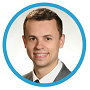
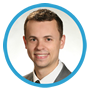
rebuilding site Sun, Feb 14, 2016  9:35:20 AM

diff --git a/2016/02/11/website-evaluation-links/index.html b/2016/02/11/website-evaluation-links/index.html
@@ -90,11 +90,12 @@
   <main id="main-wrapper" class="container main_wrapper has-sidebar">
     <header id="main-header" class="container main_header">
   <div class="container brand">
-  <div class="container title h1-like">
+  <div class="container title h2-like">
   <a class="baselink" href="http://andrewrgoss.github.io/">
-  Andrew Goss
+  <img src="https://raw.githubusercontent.com/andrewrgoss/andrewrgoss.com/master/content/media/me.png" alt="Andrew Goss" /> Andrew Goss
 
 </a>
+
 
 </div>
 
@@ -203,11 +204,11 @@
 
 <h2 id="builtwith:4bad1ad5850f28d82da8c8c5ec807869">BuiltWith</h2>
 
-<p><a href="http://builtwith.com">http://builtwith.com</a></p>
+<p><a href="http://builtwith.com" target="_blank">http://builtwith.com</a></p>
 
 <h2 id="website-grader:4bad1ad5850f28d82da8c8c5ec807869">Website Grader</h2>
 
-<p><a href="https://website.grader.com">https://website.grader.com</a></p>
+<p><a href="https://website.grader.com" target="_blank">https://website.grader.com</a></p>
 
 <h2 id="who-is-hosting-this:4bad1ad5850f28d82da8c8c5ec807869">Who Is Hosting This</h2>
 
@@ -221,7 +222,7 @@
 
 <h2 id="wordpress-theme-detector:4bad1ad5850f28d82da8c8c5ec807869">Wordpress Theme Detector</h2>
 
-<p><a href="http://www.wpthemedetector.com">http://www.wpthemedetector.com</a></p>
+<p><a href="http://www.wpthemedetector.com" target="_blank">http://www.wpthemedetector.com</a></p>
 
 </div>
 

diff --git a/tags/index.html b/tags/index.html
@@ -52,11 +52,12 @@
   <main id="main-wrapper" class="container main_wrapper has-sidebar">
     <header id="main-header" class="container main_header">
   <div class="container brand">
-  <div class="container title h1-like">
+  <div class="container title h2-like">
   <a class="baselink" href="http://andrewrgoss.github.io/">
-  Andrew Goss
+  <img src="https://raw.githubusercontent.com/andrewrgoss/andrewrgoss.com/master/content/media/me.png" alt="Andrew Goss" /> Andrew Goss
 
 </a>
+
 
 </div>
 
@@ -157,6 +158,24 @@
     </li>
   
     <li>
+      <a href="http://andrewrgoss.github.io/tags/csharp">
+        csharp
+      </a>
+      <strong>
+        1
+      </strong>
+    </li>
+  
+    <li>
+      <a href="http://andrewrgoss.github.io/tags/udemy">
+        udemy
+      </a>
+      <strong>
+        1
+      </strong>
+    </li>
+  
+    <li>
       <a href="http://andrewrgoss.github.io/tags/web">
         web
       </a>
@@ -186,24 +205,6 @@
     <li>
       <a href="http://andrewrgoss.github.io/tags/hugo">
         hugo
-      </a>
-      <strong>
-        1
-      </strong>
-    </li>
-  
-    <li>
-      <a href="http://andrewrgoss.github.io/tags/csharp">
-        csharp
-      </a>
-      <strong>
-        1
-      </strong>
-    </li>
-  
-    <li>
-      <a href="http://andrewrgoss.github.io/tags/udemy">
-        udemy
       </a>
       <strong>
         1

diff --git a/2016/01/26/why-i-switched-to-hugo/index.html b/2016/01/26/why-i-switched-to-hugo/index.html
@@ -88,11 +88,12 @@
   <main id="main-wrapper" class="container main_wrapper has-sidebar">
     <header id="main-header" class="container main_header">
   <div class="container brand">
-  <div class="container title h1-like">
+  <div class="container title h2-like">
   <a class="baselink" href="http://andrewrgoss.github.io/">
-  Andrew Goss
+  <img src="https://raw.githubusercontent.com/andrewrgoss/andrewrgoss.com/master/content/media/me.png" alt="Andrew Goss" /> Andrew Goss
 
 </a>
+
 
 </div>
 

diff --git a/404.html b/404.html
@@ -52,11 +52,12 @@
   <main id="main-wrapper" class="container main_wrapper has-sidebar">
     <header id="main-header" class="container main_header">
   <div class="container brand">
-  <div class="container title h1-like">
+  <div class="container title h2-like">
   <a class="baselink" href="http://andrewrgoss.github.io/">
-  Andrew Goss
+  <img src="https://raw.githubusercontent.com/andrewrgoss/andrewrgoss.com/master/content/media/me.png" alt="Andrew Goss" /> Andrew Goss
 
 </a>
+
 
 </div>
 

diff --git a/about/index.html b/about/index.html
@@ -80,11 +80,12 @@
   <main id="main-wrapper" class="container main_wrapper has-sidebar">
     <header id="main-header" class="container main_header">
   <div class="container brand">
-  <div class="container title h1-like">
+  <div class="container title h2-like">
   <a class="baselink" href="http://andrewrgoss.github.io/">
-  Andrew Goss
+  <img src="https://raw.githubusercontent.com/andrewrgoss/andrewrgoss.com/master/content/media/me.png" alt="Andrew Goss" /> Andrew Goss
 
 </a>
+
 
 </div>
 

diff --git a/index.html b/index.html
@@ -52,11 +52,12 @@
   <main id="main-wrapper" class="container main_wrapper has-sidebar">
     <header id="main-header" class="container main_header">
   <div class="container brand">
-  <div class="container title h1-like">
+  <div class="container title h2-like">
   <a class="baselink" href="http://andrewrgoss.github.io/">
-  Andrew Goss
+  <img src="https://raw.githubusercontent.com/andrewrgoss/andrewrgoss.com/master/content/media/me.png" alt="Andrew Goss" /> Andrew Goss
 
 </a>
+
 
 </div>
 

diff --git a/learning/doxsey_intro_programming_in_go/index.html b/learning/doxsey_intro_programming_in_go/index.html
@@ -84,11 +84,12 @@
   <main id="main-wrapper" class="container main_wrapper has-sidebar">
     <header id="main-header" class="container main_header">
   <div class="container brand">
-  <div class="container title h1-like">
+  <div class="container title h2-like">
   <a class="baselink" href="http://andrewrgoss.github.io/">
-  Andrew Goss
+  <img src="https://raw.githubusercontent.com/andrewrgoss/andrewrgoss.com/master/content/media/me.png" alt="Andrew Goss" /> Andrew Goss
 
 </a>
+
 
 </div>
 

diff --git a/learning/index.html b/learning/index.html
@@ -52,11 +52,12 @@
   <main id="main-wrapper" class="container main_wrapper has-sidebar">
     <header id="main-header" class="container main_header">
   <div class="container brand">
-  <div class="container title h1-like">
+  <div class="container title h2-like">
   <a class="baselink" href="http://andrewrgoss.github.io/">
-  Andrew Goss
+  <img src="https://raw.githubusercontent.com/andrewrgoss/andrewrgoss.com/master/content/media/me.png" alt="Andrew Goss" /> Andrew Goss
 
 </a>
+
 
 </div>
 

diff --git a/learning/udemy_csharp_for_beginners/index.html b/learning/udemy_csharp_for_beginners/index.html
@@ -86,11 +86,12 @@
   <main id="main-wrapper" class="container main_wrapper has-sidebar">
     <header id="main-header" class="container main_header">
   <div class="container brand">
-  <div class="container title h1-like">
+  <div class="container title h2-like">
   <a class="baselink" href="http://andrewrgoss.github.io/">
-  Andrew Goss
+  <img src="https://raw.githubusercontent.com/andrewrgoss/andrewrgoss.com/master/content/media/me.png" alt="Andrew Goss" /> Andrew Goss
 
 </a>
+
 
 </div>
 

diff --git a/post/index.html b/post/index.html
@@ -52,11 +52,12 @@
   <main id="main-wrapper" class="container main_wrapper has-sidebar">
     <header id="main-header" class="container main_header">
   <div class="container brand">
-  <div class="container title h1-like">
+  <div class="container title h2-like">
   <a class="baselink" href="http://andrewrgoss.github.io/">
-  Andrew Goss
+  <img src="https://raw.githubusercontent.com/andrewrgoss/andrewrgoss.com/master/content/media/me.png" alt="Andrew Goss" /> Andrew Goss
 
 </a>
+
 
 </div>
 

diff --git a/tags/csharp/index.html b/tags/csharp/index.html
@@ -52,11 +52,12 @@
   <main id="main-wrapper" class="container main_wrapper has-sidebar">
     <header id="main-header" class="container main_header">
   <div class="container brand">
-  <div class="container title h1-like">
+  <div class="container title h2-like">
   <a class="baselink" href="http://andrewrgoss.github.io/">
-  Andrew Goss
+  <img src="https://raw.githubusercontent.com/andrewrgoss/andrewrgoss.com/master/content/media/me.png" alt="Andrew Goss" /> Andrew Goss
 
 </a>
+
 
 </div>
 

diff --git a/tags/golang/index.html b/tags/golang/index.html
@@ -52,11 +52,12 @@
   <main id="main-wrapper" class="container main_wrapper has-sidebar">
     <header id="main-header" class="container main_header">
   <div class="container brand">
-  <div class="container title h1-like">
+  <div class="container title h2-like">
   <a class="baselink" href="http://andrewrgoss.github.io/">
-  Andrew Goss
+  <img src="https://raw.githubusercontent.com/andrewrgoss/andrewrgoss.com/master/content/media/me.png" alt="Andrew Goss" /> Andrew Goss
 
 </a>
+
 
 </div>
 
